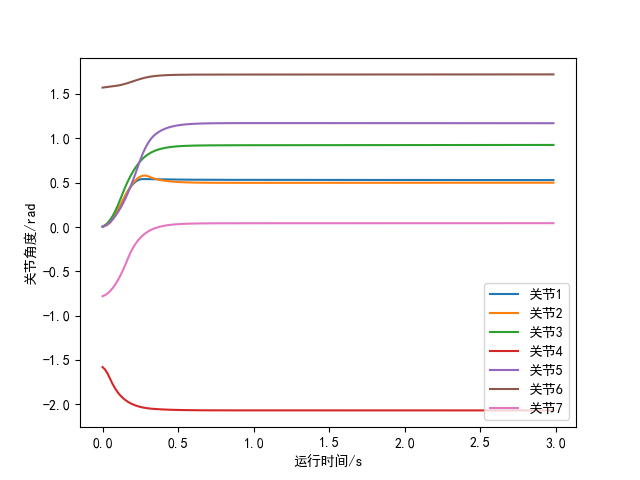
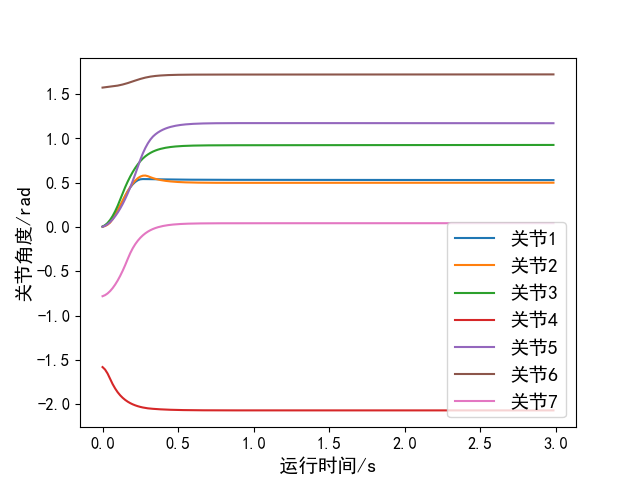
推动了第二章图表的绘制进度

diff --git a/graduate_project/chapter_2_ik/pic_plot.py b/graduate_project/chapter_2_ik/pic_plot.py
@@ -2,6 +2,9 @@ import pandas as pd
 import matplotlib.pyplot as plt
 import numpy as np
 
+plt.rc('xtick', labelsize = 12)
+plt.rc('ytick', labelsize = 12)
+textsize = 14
 # 绘制七关节角度变化图
 df = pd.read_csv('realtime_data.csv', header=None)
 data = np.array(df.values)
@@ -40,9 +43,9 @@ plt.figure(1)
 for j in range(3, 10):
     plt.plot(length_time, data[chunks[i]+2:chunks[i+1], j])
 plt.legend(['关节1', '关节2', '关节3', '关节4', '关节5', '关节6', '关节7'],
-           loc = 'lower right')
-plt.xlabel('运行时间/s')
-plt.ylabel('关节角度/rad')
+           loc = 'lower right', fontsize = textsize)
+plt.xlabel('运行时间/s', fontsize = textsize)
+plt.ylabel('关节角度/rad', fontsize = textsize)
 plt.savefig('picture/I_joint_angles.png')
 
 # 单位对角矩阵 末端位姿变化
@@ -51,16 +54,19 @@ ax2 = fig.add_subplot(111)
 for j in range(3):
     ax2.plot(length_time, data[chunks[i]+2:chunks[i+1], j] )
 # ax2.legend(['x轴坐标', 'y轴坐标', 'z轴坐标'])
-ax2.set_ylabel('位置/m')
+ax2.set_ylabel('位置/m', fontsize = textsize)
+ax2.set_xlabel('运行时间/s', fontsize = textsize)
+# ax2.set_xticks(x_tics, fontsize = 12)
+# ax2.set_yticks(y_tics, fontsize = 12)
 
 ax3 = ax2.twinx()
 for j in range(10, 13):
     ax3.plot(length_time, data[chunks[i]+2:chunks[i+1], j],  linestyle = '--')
-ax3.set_ylabel('角度/rad')
+ax3.set_ylabel('角度/rad', fontsize = textsize)
 
 fig.legend(['x轴坐标', 'y轴坐标', 'z轴坐标', '偏航角yaw', '俯仰角pitch', '翻滚角roll'],
-           loc = 'lower right', bbox_to_anchor=(0.9, 0.115))
-plt.xlabel('运行时间/s')
+           loc = 'lower right', bbox_to_anchor=(0.9, 0.115), fontsize = textsize)
+
 plt.savefig('picture/I_site_posquat.png')
 
 plt.show()
